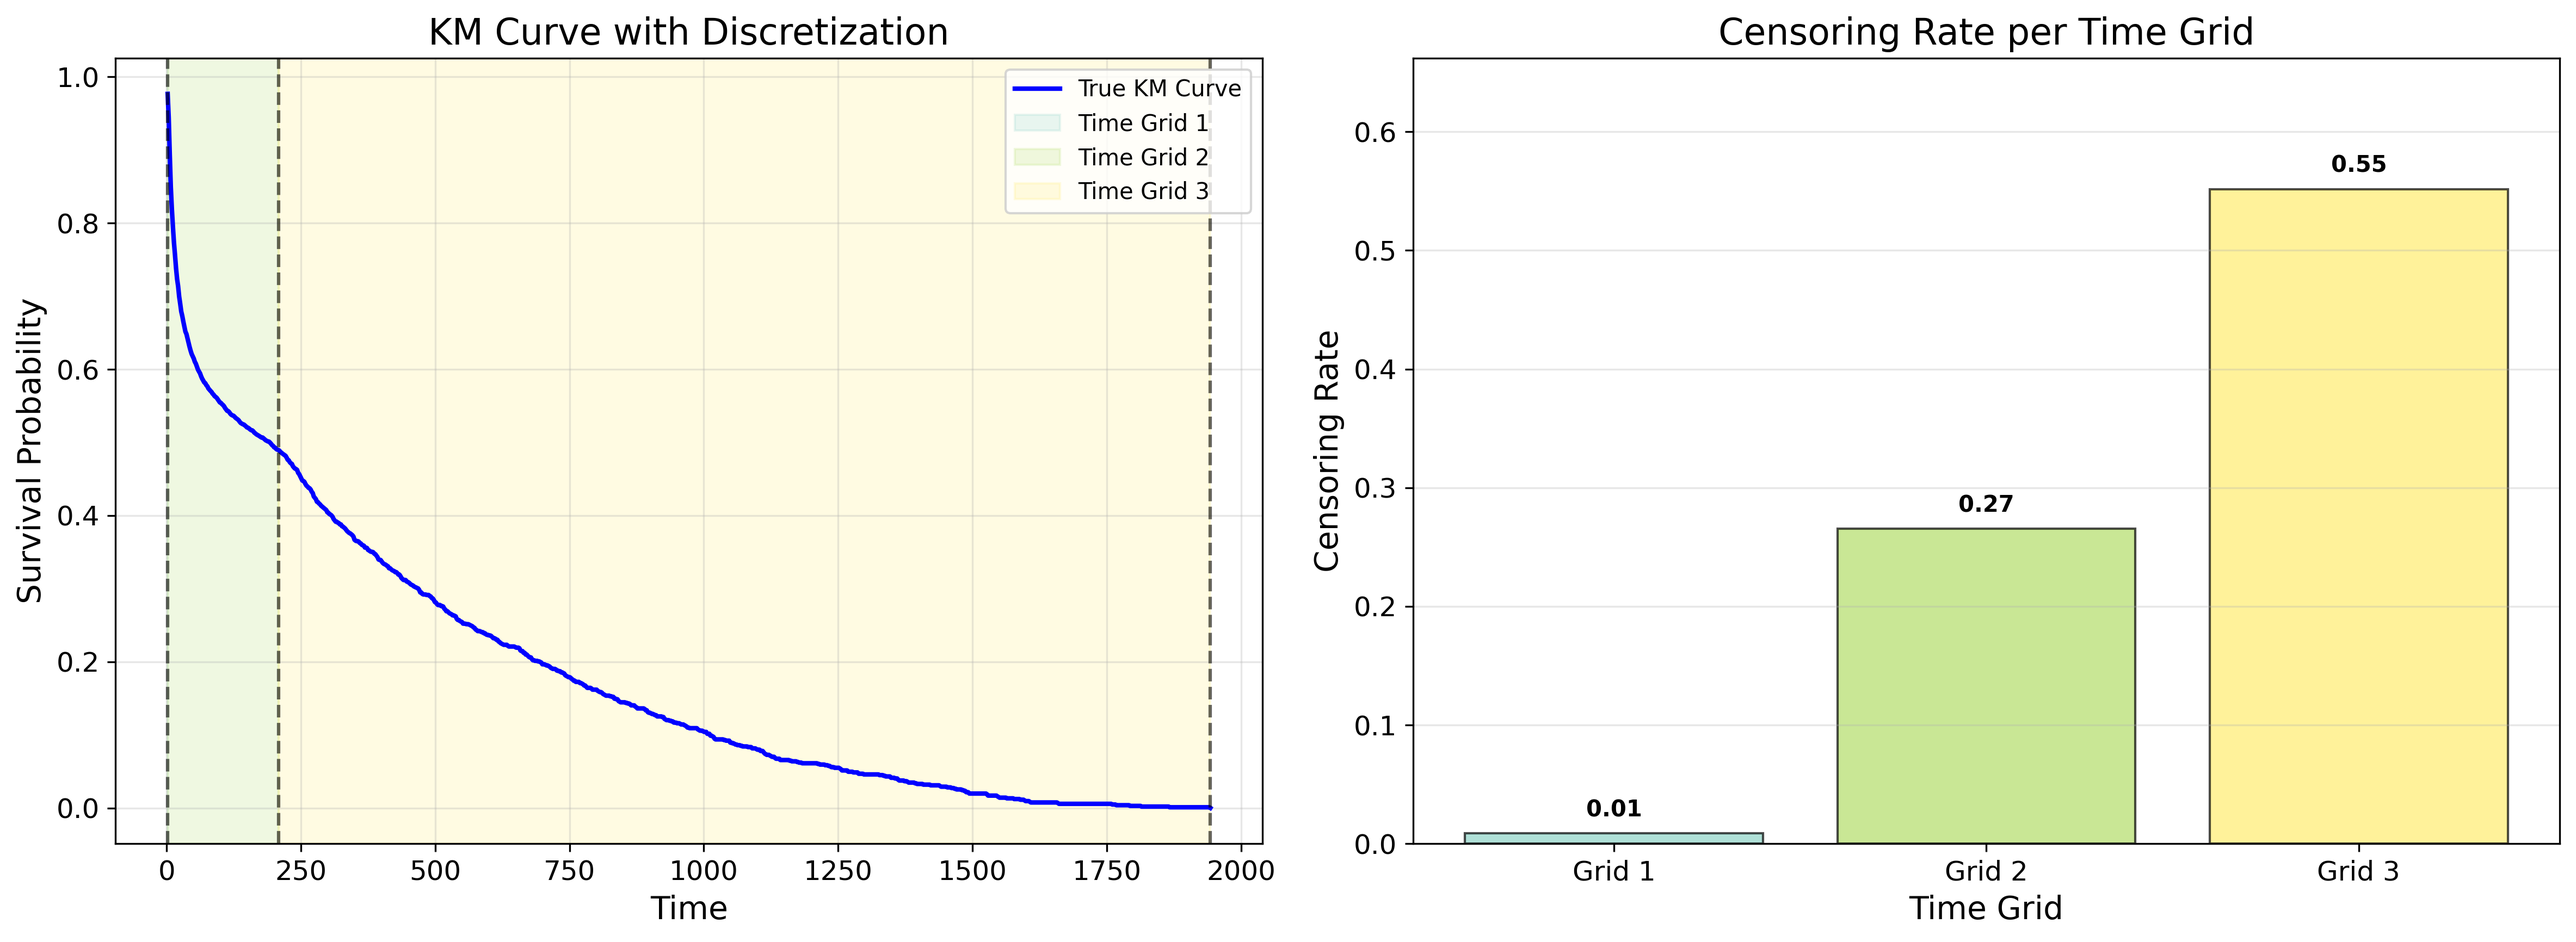
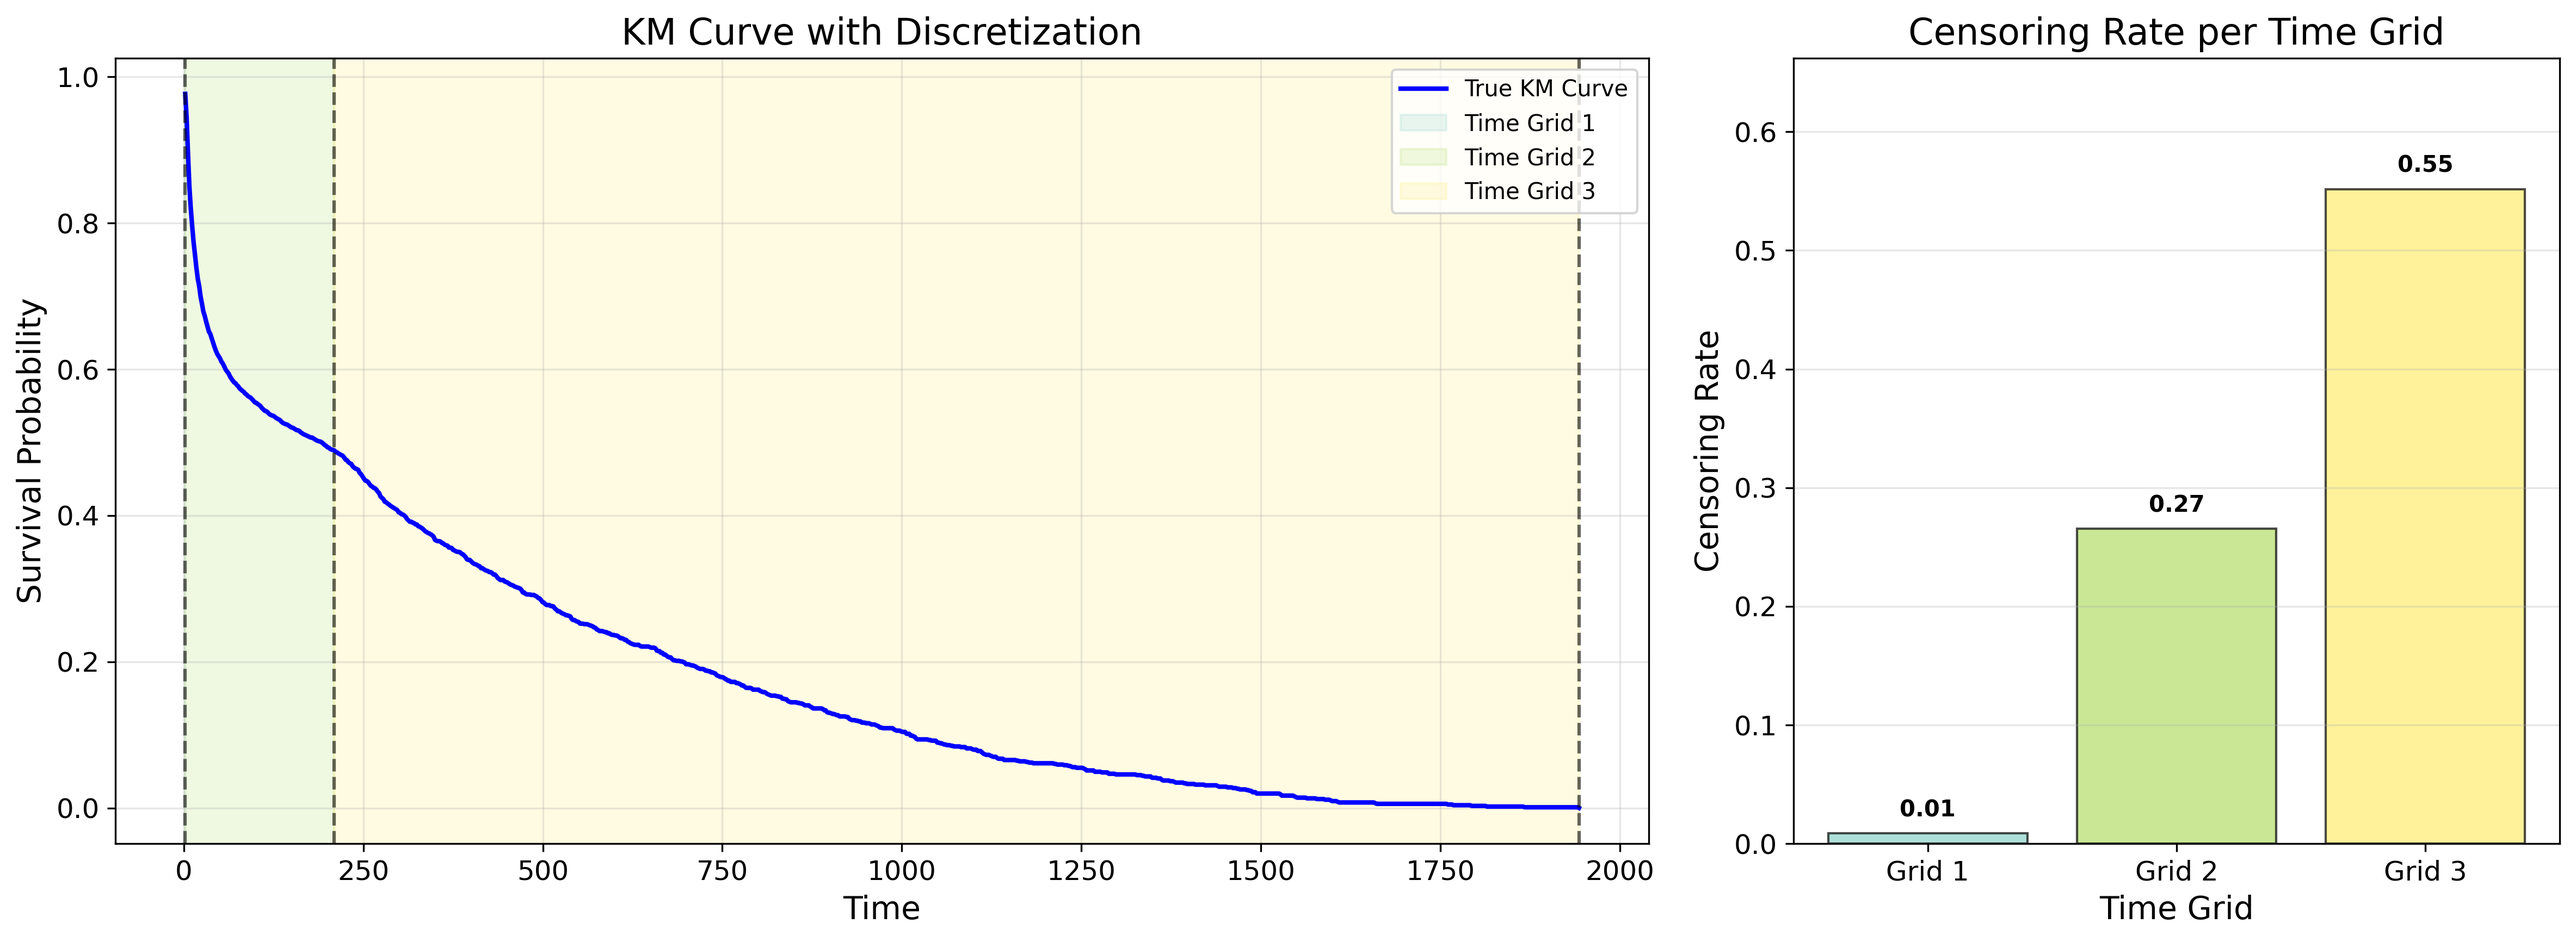
resize figures

diff --git a/discrete_analysis.py b/discrete_analysis.py
@@ -356,8 +356,8 @@ def plot_survival_curves_comparison(S_tabpfn, S_baselines, baseline_names, times
 
 def plot_discretization_analysis(cuts, y_trainval, dataset_name):
     """Analyze the impact of discretization on survival estimation."""
-    # Create single figure with two subplots side by side
-    fig, (ax1, ax2) = plt.subplots(1, 2, figsize=(16, 6))
+    # Create single figure with two subplots side by side (2/3 and 1/3 width ratio)
+    fig, (ax1, ax2) = plt.subplots(1, 2, figsize=(16, 6), gridspec_kw={'width_ratios': [2, 1]})
     
     # Plot KM curve
     sfe = SurvivalFunctionEstimator().fit(y_trainval)
